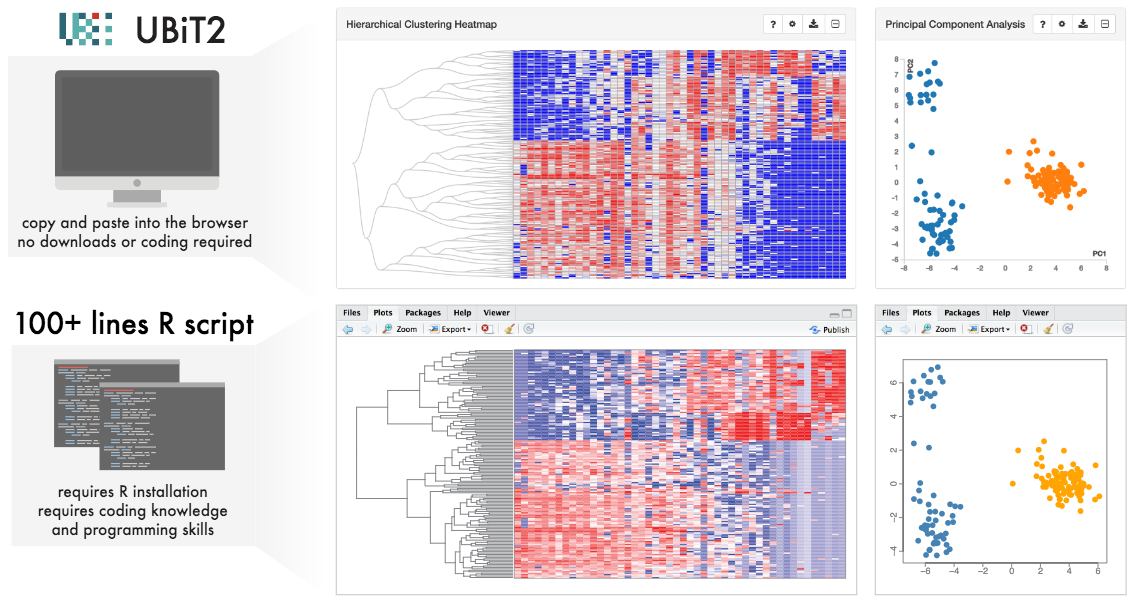
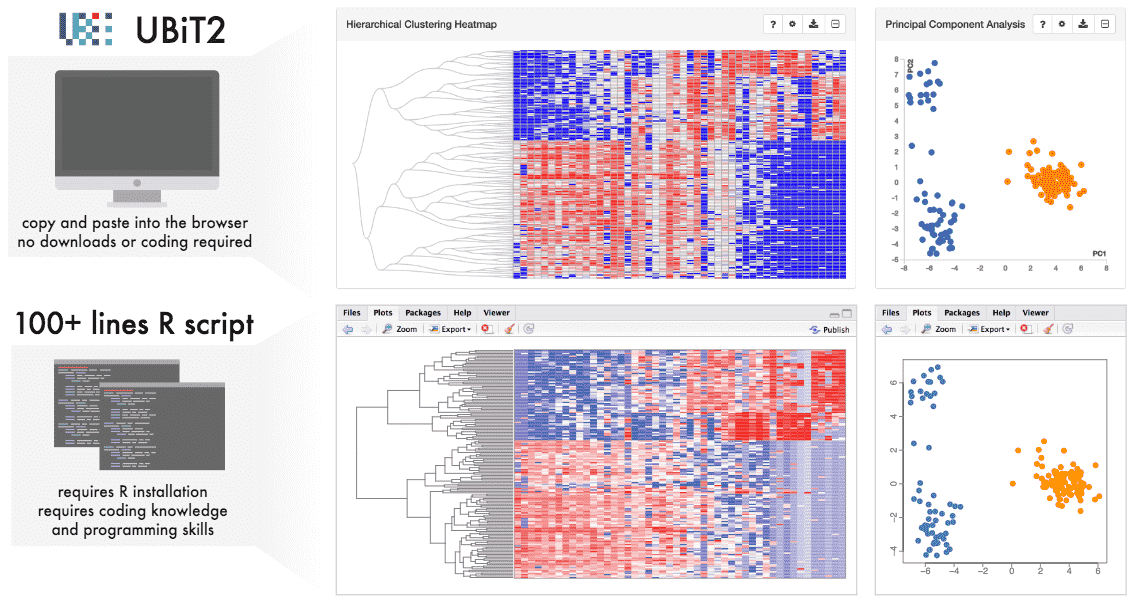
Images for all preprints. Compressed with pngquant --speed 1 --quality 0-25

diff --git a/_publications/gehlenborg-2012-computer-graphics.md b/_publications/gehlenborg-2012-computer-graphics.md
@@ -1,5 +1,6 @@
 ---
 title: "StratomeX: Visual Analysis of Large-Scale Heterogeneous Genomics Data for Cancer Subtype Characterization"
+image: stratomex.png
 
 members:
   - nils-gehlenborg

diff --git a/_publications/lekschas-2017-biorxiv.md b/_publications/lekschas-2017-biorxiv.md
@@ -1,5 +1,6 @@
 ---
 title: "HiPiler: Visual Exploration Of Large Genome Interaction Matrices With Interactive Small Multiples"
+image: hipiler.png
 
 members:
   - fritz-lekschas  

diff --git a/_publications/lekschas-2017-satori.md b/_publications/lekschas-2017-satori.md
@@ -1,5 +1,6 @@
 ---
 title: "SATORI: A System for Ontology-Guided Visual Exploration of Biomedical Data Repositories"
+image: satori.png
 
 members:
   - nils-gehlenborg

diff --git a/_publications/kerpedjiev-2017-biorxiv.md b/_publications/kerpedjiev-2017-biorxiv.md
@@ -1,5 +1,6 @@
 ---
 title: "HiGlass: Web-based Visual Comparison And Exploration Of Genome Interaction Maps"
+image: higlass.png
 
 members:
   - peter-kerpedjiev

diff --git a/_publications/kern-2017-biorxiv.md b/_publications/kern-2017-biorxiv.md
@@ -1,5 +1,6 @@
 ---
 title: "Interactive Visual Exploration And Refinement Of Cluster Assignments"
+image: stratomex.png
 
 members:
   - nils-gehlenborg

diff --git a/_publications/nobre-2017-biorxiv-lineage.md b/_publications/nobre-2017-biorxiv-lineage.md
@@ -1,5 +1,6 @@
 ---
 title: "Lineage: Visualizing Multivariate Clinical Data in Genealogy Graphs"
+image: lineage.png
 
 members:
   - nils-gehlenborg
